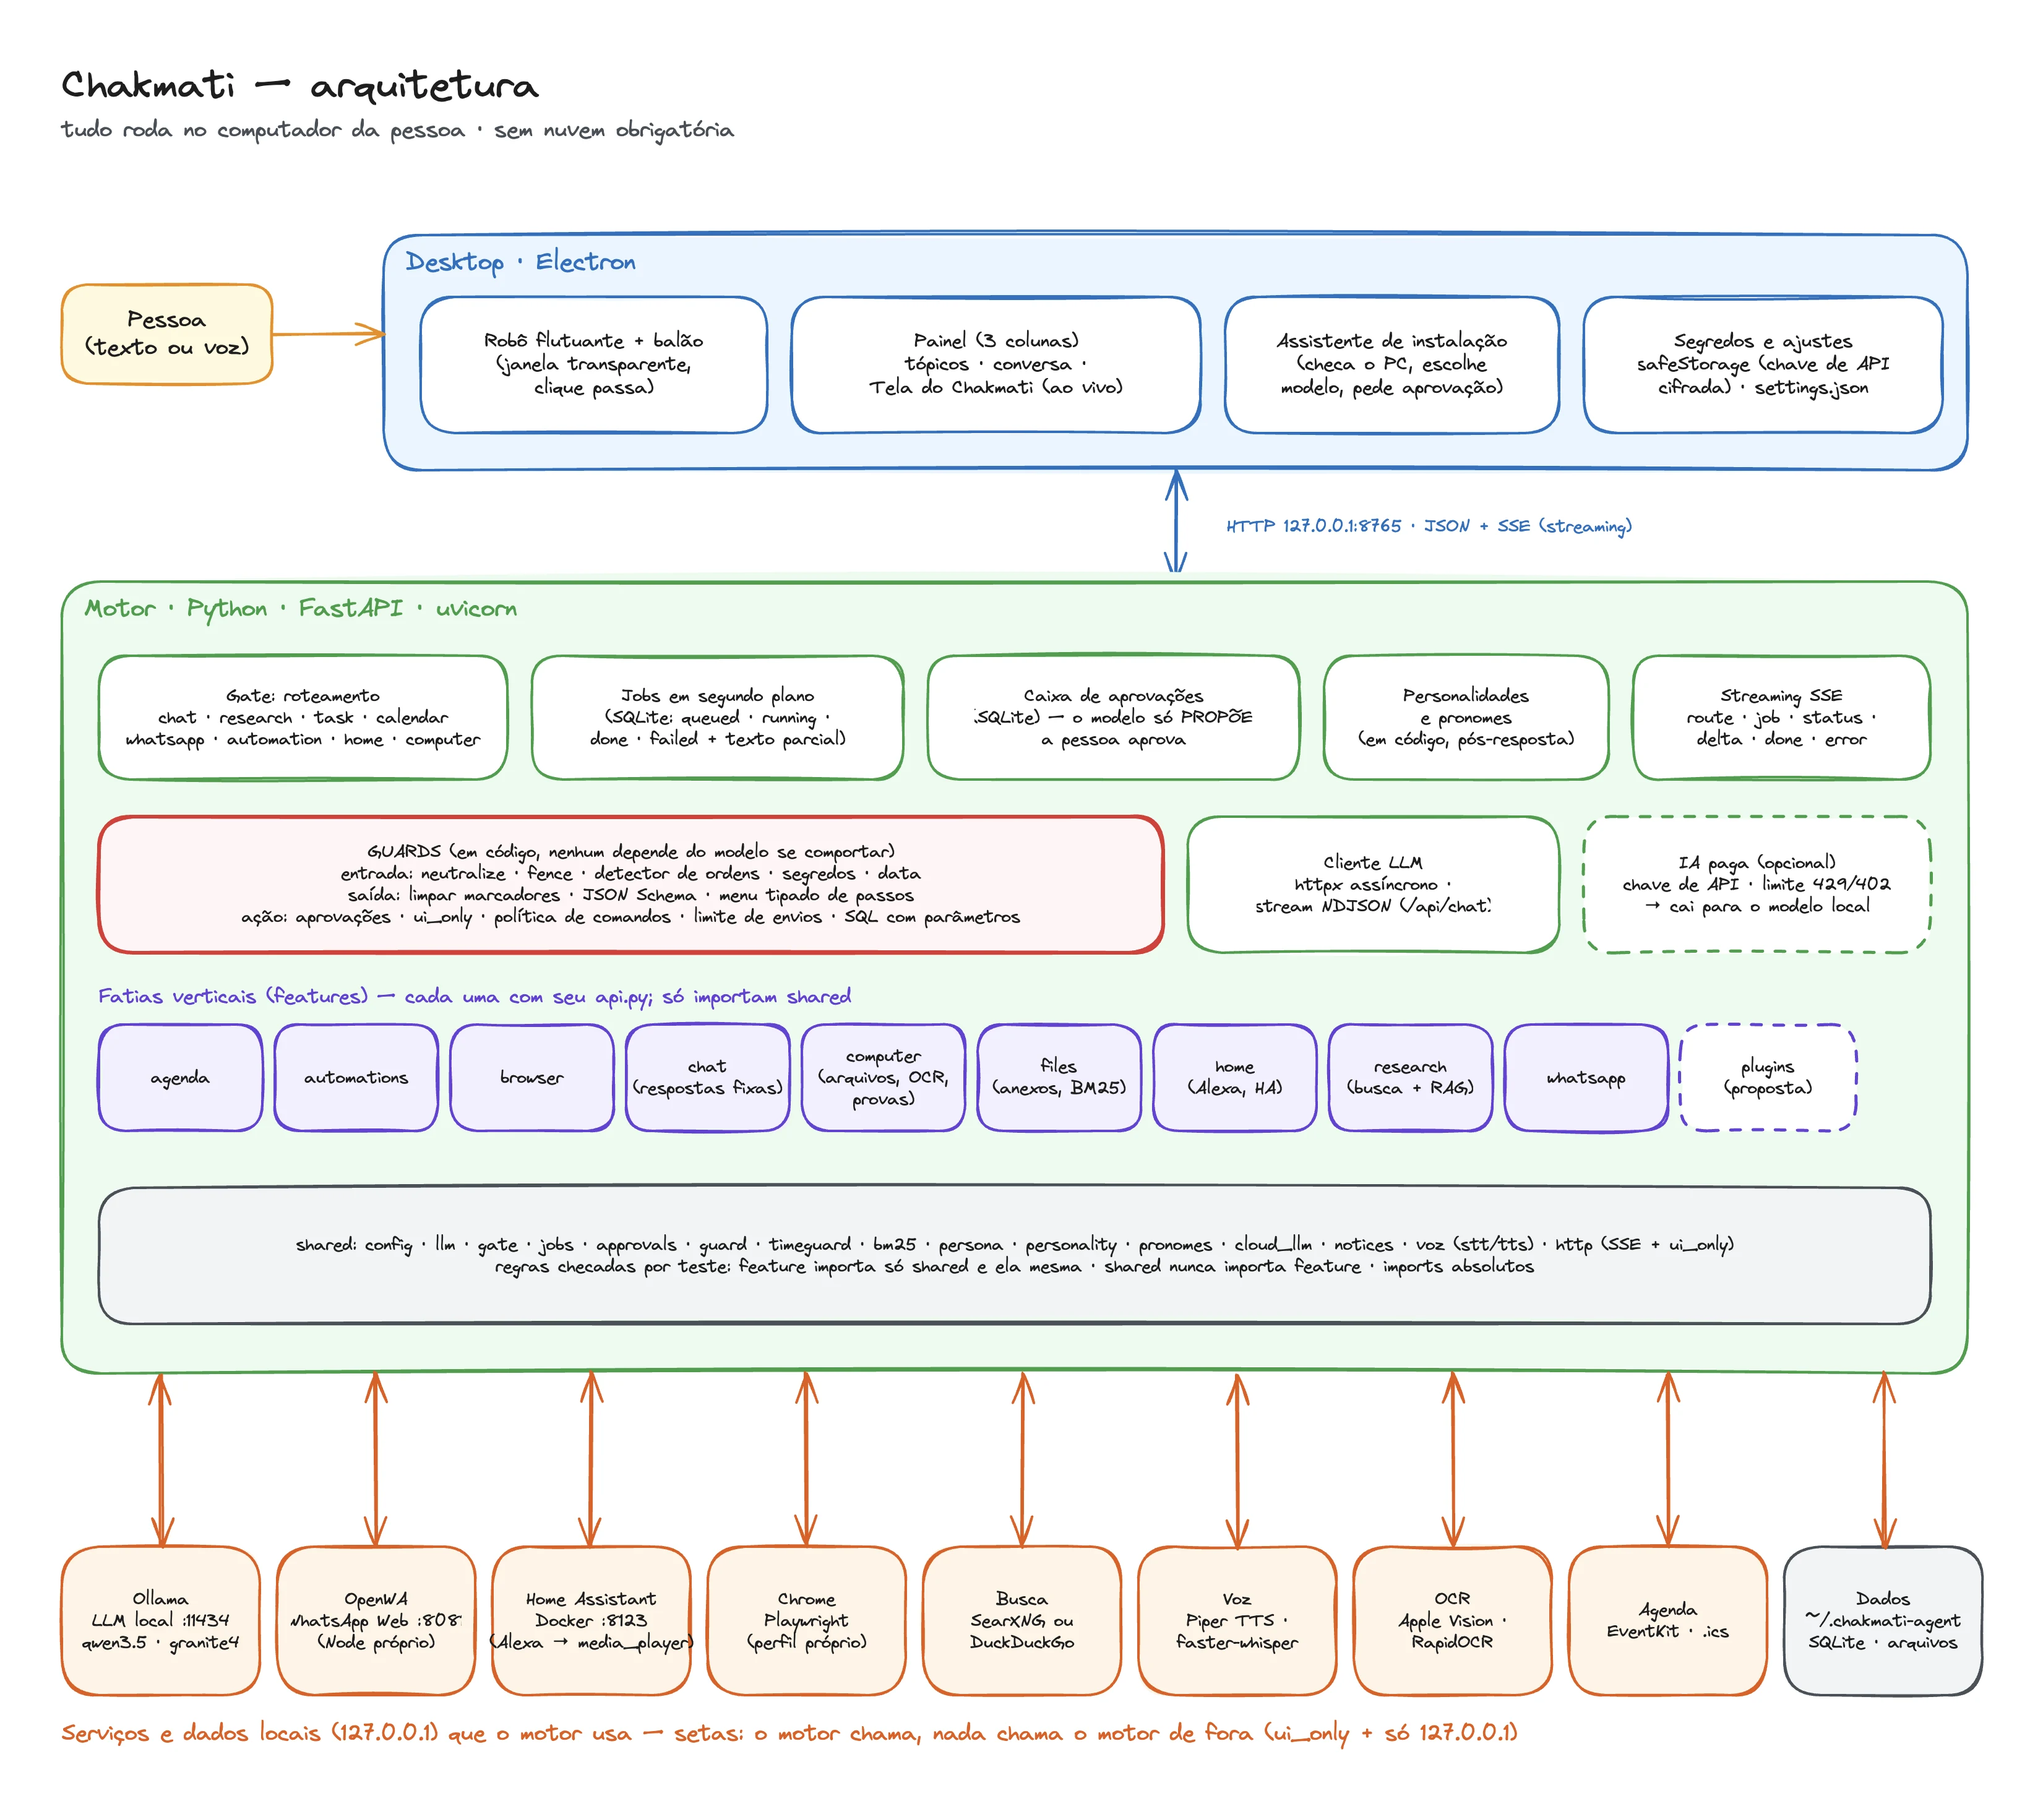
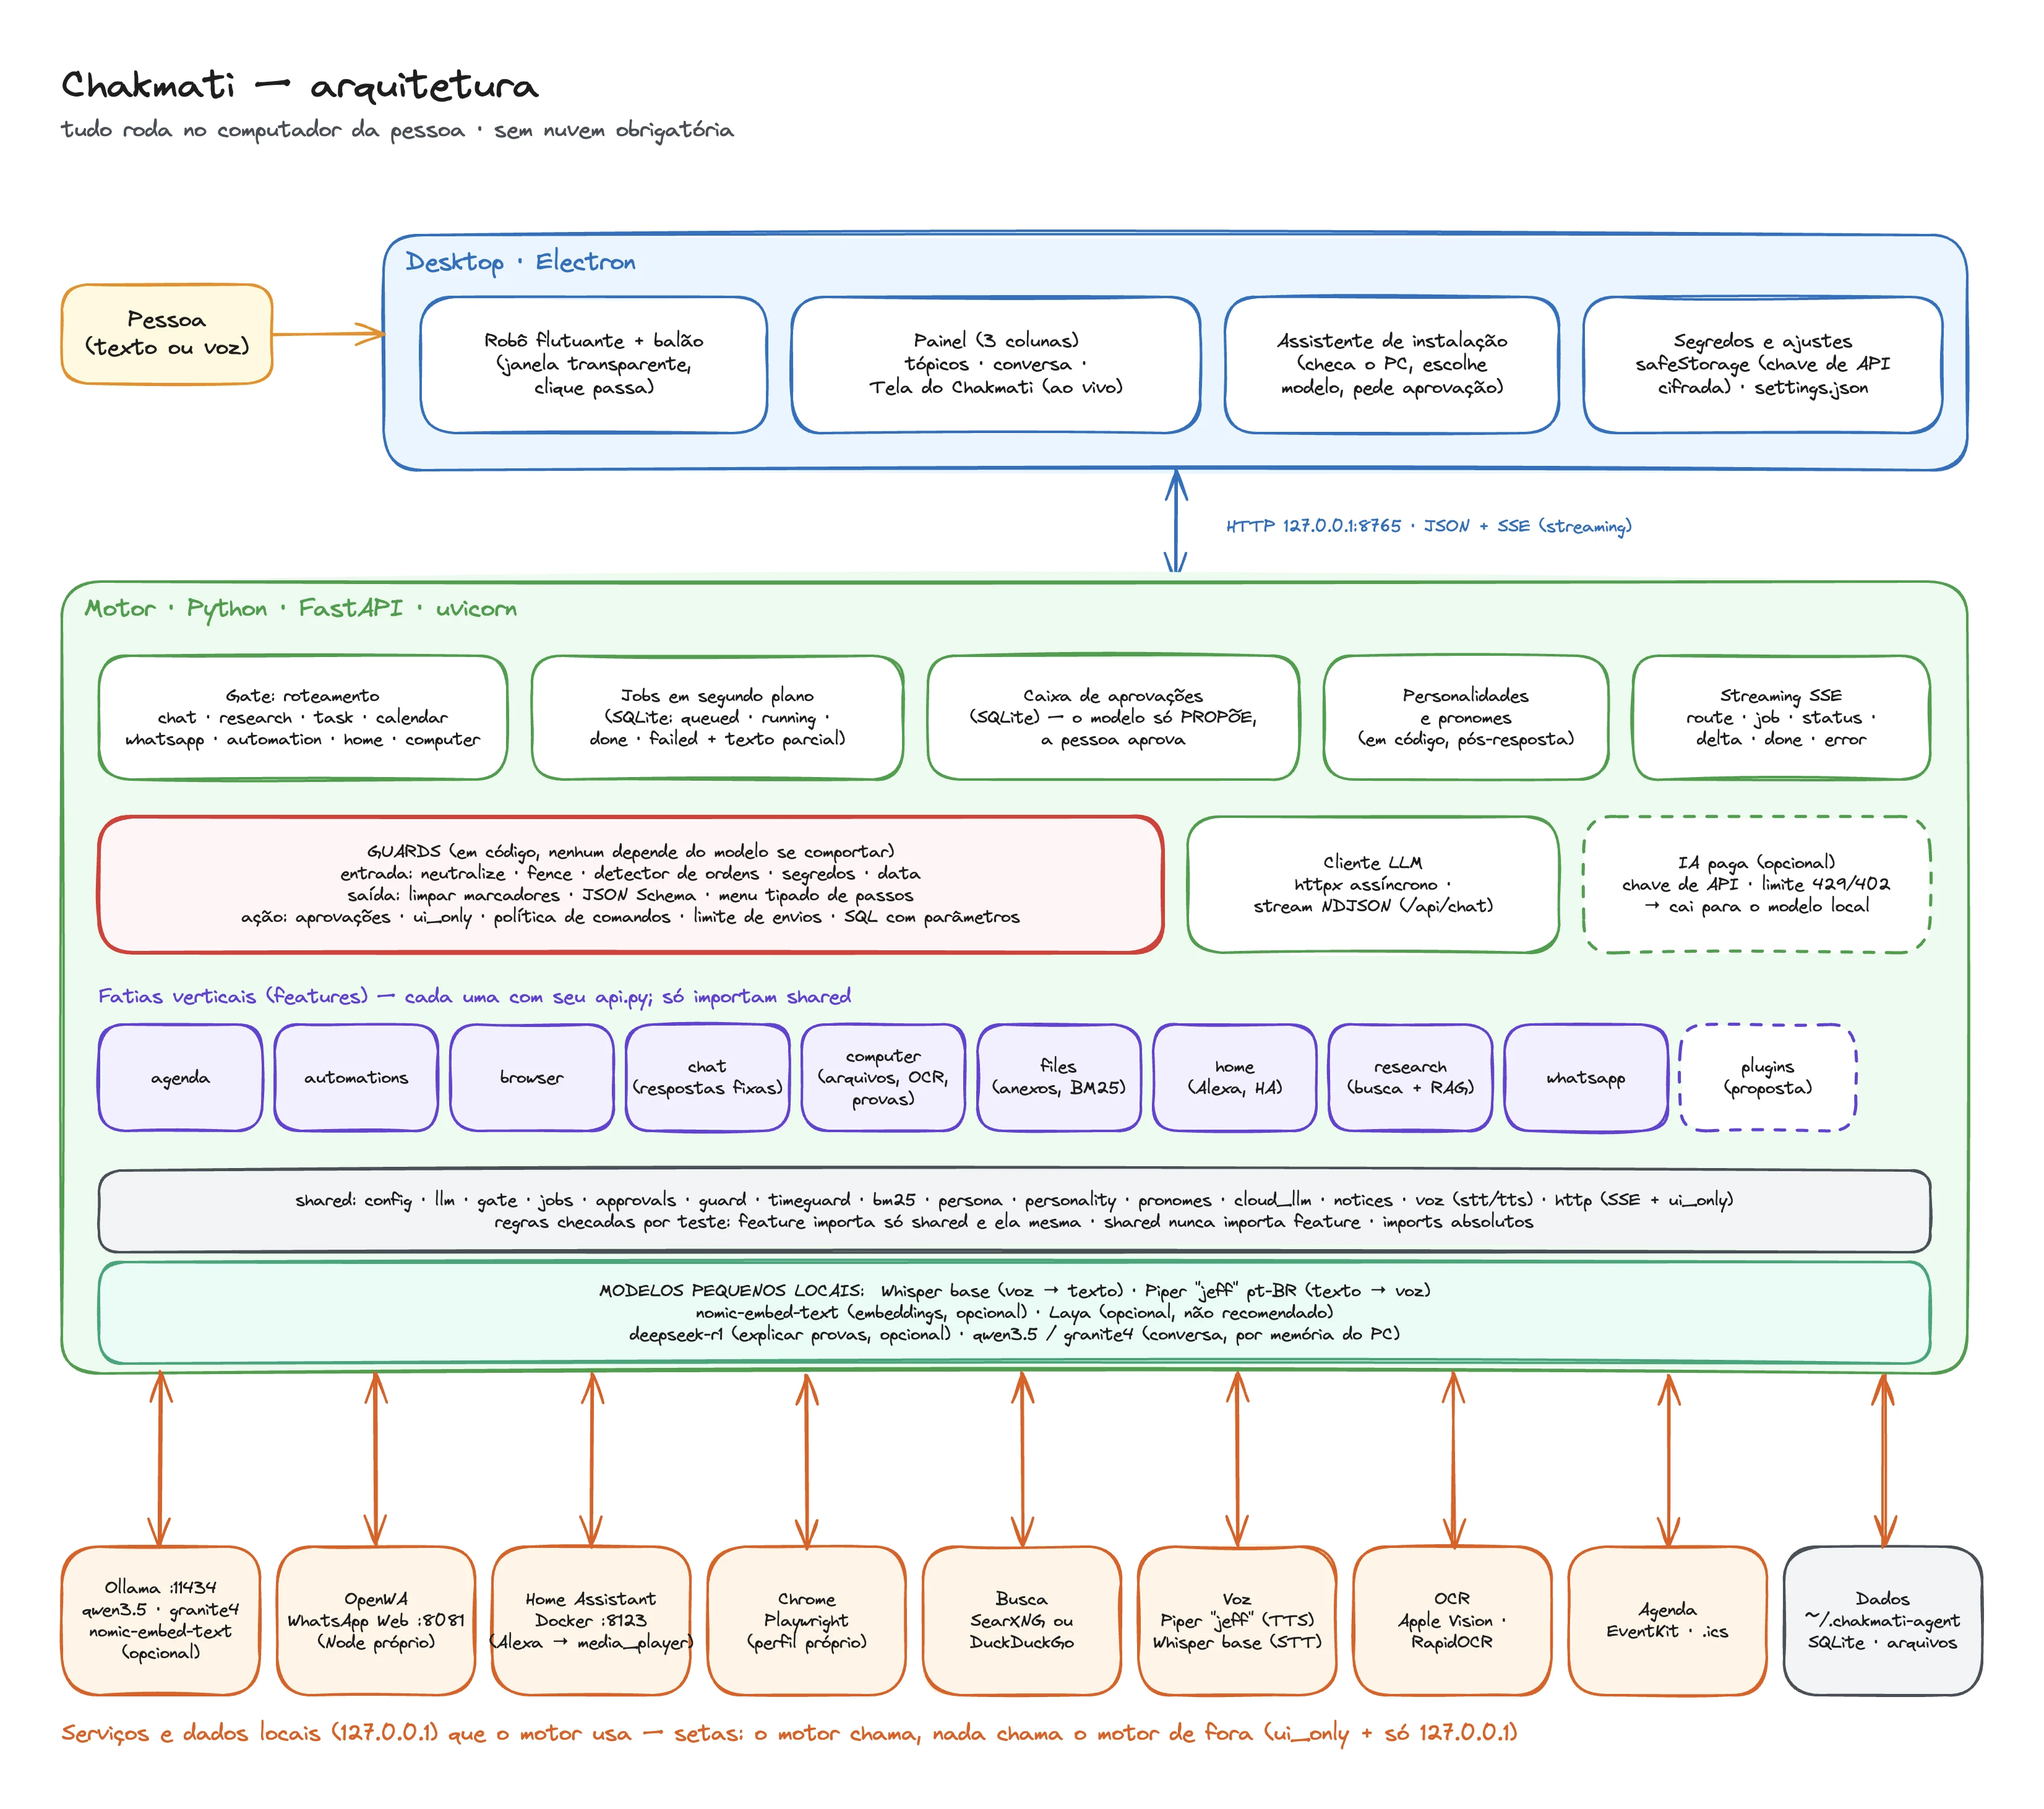
docs(site): small local models (Whisper, Piper, nomic-embed-text...) in the architecture text and both drawings; embeddings are optional in the RAG

diff --git a/docs/site/tecnico.html b/docs/site/tecnico.html
@@ -57,6 +57,7 @@
           <li data-icon="🍰"><b>Fatias verticais (feature slices)</b><span>Cada capacidade (<code>agenda</code>, <code>browser</code>, <code>files</code>, <code>research</code>, <code>whatsapp</code>, <code>home</code>...) é uma pasta com seu domínio e seu próprio roteador <code>api.py</code>. Uma capacidade nova é uma pasta nova.</span></li>
           <li data-icon="📏"><b>Regras checadas por teste</b><span>Uma feature importa só <code>shared</code> e ela mesma, nunca outra feature. <code>shared</code> nunca importa feature. <code>tests/test_architecture.py</code> reprova o build se alguém quebrar isso.</span></li>
           <li data-icon="🧩"><b>Raiz de composição</b><span><code>main.py</code> monta cada serviço a partir das configurações e sobe o servidor; <code>app/api.py</code> monta os roteadores.</span></li>
+          <li data-icon="🪶"><b>Modelos pequenos locais</b><span>Além do LLM de conversa (Qwen3.5 ou <code>granite4:3b</code>, conforme a memória do computador), cada tarefa tem seu modelo pequeno: <code>Whisper base</code> ouve a voz (~140 MB), o Piper com a voz <code>jeff</code> em pt-BR fala (~60 MB) e o <code>nomic-embed-text</code>, via Ollama, é opcional e faz embeddings para casar o sentido dos arquivos. Também opcionais: <code>deepseek-r1</code> para explicar provas e o Laya (não recomendado).</span></li>
           <li data-icon="🚧"><b>Guards em código</b><span>Entre a pessoa, o LLM e o que o app executa há guards que não dependem de o modelo se comportar: limpam o texto de fora (<code>neutralize</code>, <code>fence</code>), validam o que o modelo devolve (JSON Schema, menu de passos) e só deixam agir o que a pessoa aprova (caixa de aprovações, <code>ui_only</code>). Todos estão na seção <a href="#guards">Guards no LLM</a>.</span></li>
         </ul>
       </section>
@@ -66,7 +67,7 @@
         <h2>O modelo sugere. O código decide.</h2>
         <p class="lead">O mapa curto: a pessoa fala com o Desktop, o Desktop com o motor, e o motor com o LLM, as ferramentas e o banco. Os guards cercam o motor, e quem aprova o que muda algo é a pessoa.</p>
         <figure class="arch">
-          <img src="img/arquitetura-resumida.webp" width="1129" height="1322" loading="lazy" alt="Arquitetura resumida: a pessoa fala com o Desktop (Electron); o Desktop conversa com o motor Python por HTTP e SSE em 127.0.0.1; guards de entrada, saída e ação cercam o motor, que só sugere e deixa a pessoa aprovar; o motor chama o LLM (Ollama local, com IA paga opcional), as ferramentas e o banco SQLite.">
+          <img src="img/arquitetura-resumida.webp" width="1127" height="1348" loading="lazy" alt="Arquitetura resumida: a pessoa fala com o Desktop (Electron); o Desktop conversa com o motor Python por HTTP e SSE em 127.0.0.1; guards de entrada, saída e ação cercam o motor, que só sugere e deixa a pessoa aprovar; o motor chama o LLM (Ollama local, com nomic-embed-text opcional e IA paga opcional), as ferramentas (com Piper e Whisper para a voz) e o banco SQLite.">
           <figcaption><b>Versão resumida.</b> O modelo só sugere. O código decide, e a pessoa aprova o que muda algo. Clique para ampliar.</figcaption>
         </figure>
       </section>
@@ -74,9 +75,9 @@
       <section class="step" id="arquitetura-detalhe" data-icon="🔬" data-label="Arquitetura detalhada" data-mood="bored" data-name="Todas as peças" data-sub="o mapa completo">
         <p class="eyebrow">Arquitetura · detalhada</p>
         <h2>Todas as peças e os serviços locais.</h2>
-        <p class="lead">O mesmo mapa por dentro: o que há no Desktop, no motor (gate, jobs, aprovações, guards, features, <code>shared</code>) e os serviços locais que o motor usa.</p>
+        <p class="lead">O mesmo mapa por dentro: o que há no Desktop, no motor (gate, jobs, aprovações, guards, features, <code>shared</code>), os modelos pequenos locais e os serviços que o motor usa.</p>
         <figure class="arch">
-          <img src="img/arquitetura-detalhada.webp" width="1651" height="1462" loading="lazy" alt="Arquitetura detalhada: Desktop (robô, painel, assistente de instalação, ajustes) ligado por HTTP e SSE ao motor Python, com gate, jobs, aprovações, personalidades, streaming, guards, cliente LLM, IA paga opcional, as fatias de features, a camada shared, e os serviços locais: Ollama, OpenWA, Home Assistant, Chrome, busca, voz, OCR, agenda e dados.">
+          <img src="img/arquitetura-detalhada.webp" width="1652" height="1462" loading="lazy" alt="Arquitetura detalhada: Desktop (robô, painel, assistente de instalação, ajustes) ligado por HTTP e SSE ao motor Python, com gate, jobs, aprovações, personalidades, streaming, guards, cliente LLM, IA paga opcional, as fatias de features, a camada shared, os modelos pequenos locais (Whisper, Piper, nomic-embed-text e outros) e os serviços locais: Ollama, OpenWA, Home Assistant, Chrome, busca, voz, OCR, agenda e dados.">
           <figcaption><b>Versão detalhada.</b> Todas as peças e os serviços locais que o motor usa. Clique para ampliar.</figcaption>
         </figure>
       </section>
@@ -109,8 +110,8 @@
 
       <section class="step" id="arquivos" data-icon="📄" data-label="Arquivos e RAG" data-mood="thinking" data-name="Lendo e indexando" data-sub="só os trechos que importam">
         <p class="eyebrow">Arquivos e RAG</p>
-        <h2>RAG leve: recupera por BM25, sem embeddings.</h2>
-        <p class="lead">Em vez de mandar o arquivo inteiro ao modelo, o Chakmati recupera os trechos que respondem à pergunta. Funciona em computadores modestos porque não há banco vetorial nem modelo de embeddings.</p>
+        <h2>RAG leve: BM25 por padrão, embeddings opcionais.</h2>
+        <p class="lead">Em vez de mandar o arquivo inteiro ao modelo, o Chakmati recupera os trechos que respondem à pergunta. Funciona em computadores modestos porque, por padrão, não há banco vetorial nem modelo de embeddings: só palavras (BM25).</p>
         <div class="flow row">
           <div class="node"><b>1. Extrair</b><span><code>pypdf</code>, <code>python-docx</code>, <code>openpyxl</code>, <code>python-pptx</code>. Só o texto é guardado, nunca o original.</span></div>
           <div class="arrow">→</div>
@@ -122,6 +123,7 @@
         </div>
         <ul class="cards">
           <li data-icon="🧹"><b>Pouca memória, pouco disco</b><span>Arquivo lido uma vez ao anexar, limite de 20 MB e 1,5 milhão de caracteres, texto extraído guardado com id aleatório e apagado depois de 7 dias.</span></li>
+          <li data-icon="🧬"><b>Embeddings, se a pessoa ligar</b><span>Com um modelo de embeddings configurado (<code>nomic-embed-text</code>, via Ollama em <code>/api/embed</code>), o motor soma a similaridade por cosseno entre a pergunta e cada trecho. Serve para casar o <i>sentido</i>, até entre idiomas. Vem desligado: num computador modesto, nada a mais roda.</span></li>
           <li data-icon="🔀"><b>O mesmo ranqueador, em dois lugares</b><span><code>shared/bm25.py</code> serve tanto os arquivos anexados quanto os trechos de páginas da pesquisa na web.</span></li>
         </ul>
       </section>
